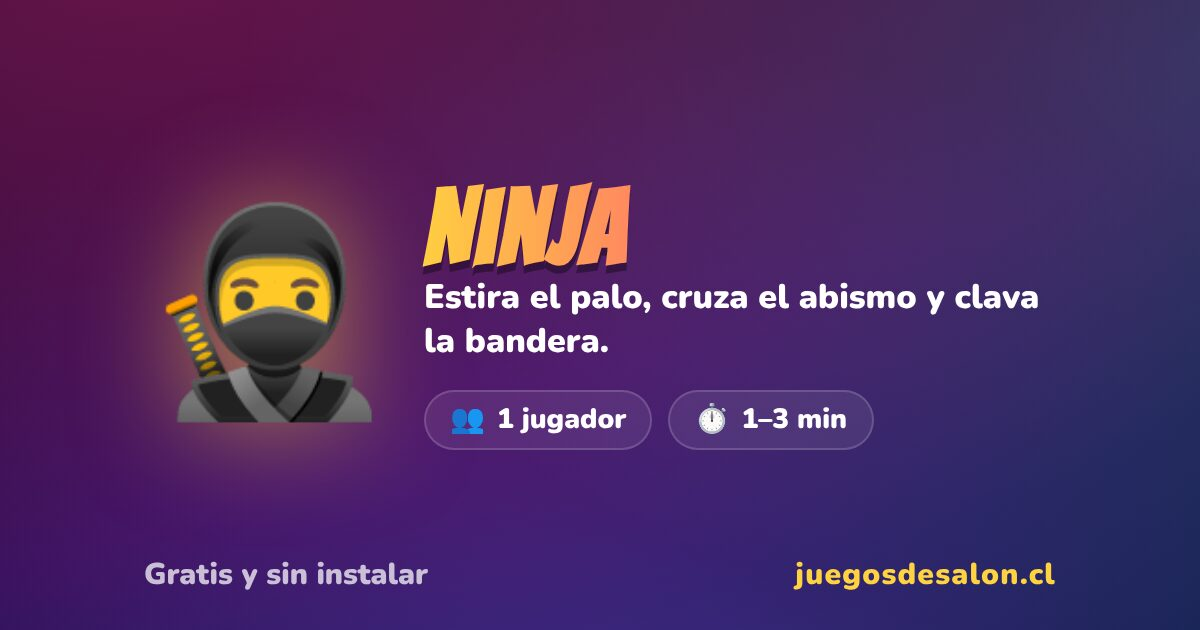
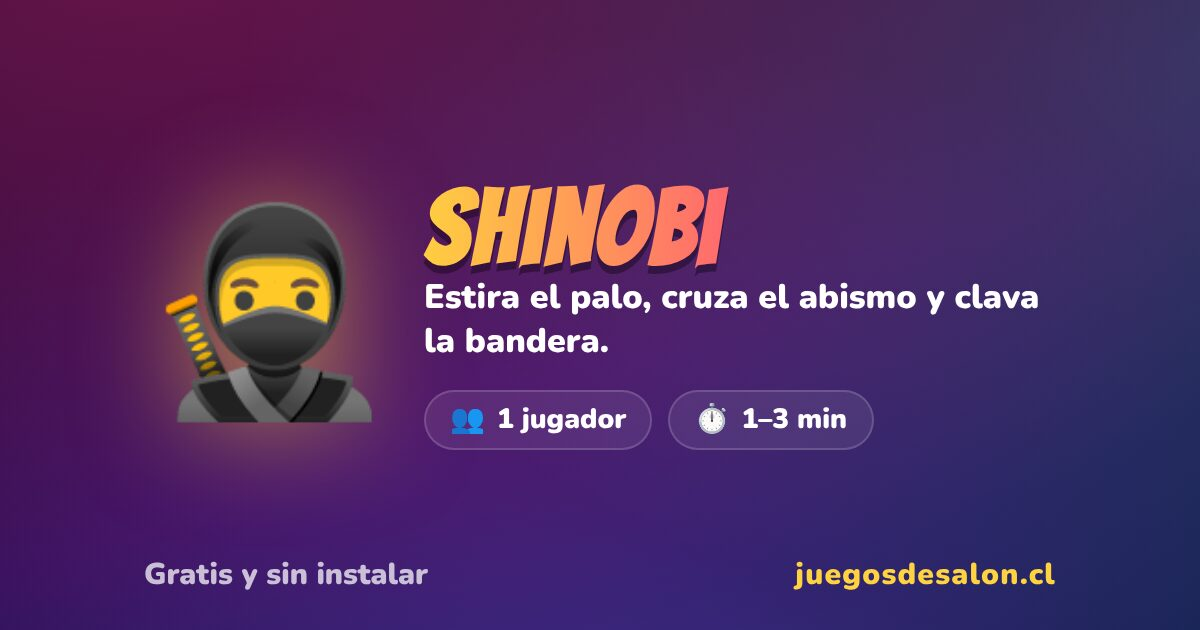
Ninja is renamed Shinobi (the owner's choice): its page moves to /shinobi/ (D-517)
The id stays `stick`; the play is unchanged and the cover still credits
Ketchapp's Stick Hero with its link.

Claude-Session: https://claude.ai/code/session_014TxuHUiWxbmduqQWuqBB6e

Changed region(s): [[0.3392, 0.2714, 0.6167, 0.4524]]

diff --git a/public/minigames/shinobi/index.html b/public/minigames/shinobi/index.html
@@ -3,34 +3,34 @@
 <head>
   <meta charset="utf-8">
   <meta name="viewport" content="width=device-width, initial-scale=1">
-  <title>Ninja 🥷 · Juegos de Salón</title>
-  <!-- Bridge page (D-192): this route moved to /ninja/. Generated by node tools/release/og.mjs cards: not edited by hand. -->
+  <title>Shinobi 🥷 · Juegos de Salón</title>
+  <!-- Bridge page (D-192): this route moved to /shinobi/. Generated by node tools/release/og.mjs cards: not edited by hand. -->
   <!-- generated: og · rewritten by node tools/release/og.mjs cards -->
   <meta name="description" content="Estira el palo, cruza el abismo y clava la bandera. Un jugador, 1–3 min. Gratis, sin instalar y sin cuenta.">
-  <link rel="canonical" href="https://juegosdesalon.cl/ninja/">
+  <link rel="canonical" href="https://juegosdesalon.cl/shinobi/">
   <meta property="og:type" content="website">
   <meta property="og:site_name" content="Juegos de Salón">
-  <meta property="og:url" content="https://juegosdesalon.cl/ninja/">
-  <meta property="og:title" content="Ninja 🥷 · Juegos de Salón">
+  <meta property="og:url" content="https://juegosdesalon.cl/shinobi/">
+  <meta property="og:title" content="Shinobi 🥷 · Juegos de Salón">
   <meta property="og:description" content="Estira el palo, cruza el abismo y clava la bandera. Un jugador, 1–3 min. Gratis, sin instalar y sin cuenta.">
   <meta property="og:image" content="https://juegosdesalon.cl/assets/og/stick.jpg">
   <meta property="og:image:type" content="image/jpeg">
   <meta property="og:image:width" content="1200">
   <meta property="og:image:height" content="630">
-  <meta property="og:image:alt" content="Ninja: Estira el palo, cruza el abismo y clava la bandera.">
+  <meta property="og:image:alt" content="Shinobi: Estira el palo, cruza el abismo y clava la bandera.">
   <meta property="og:locale" content="es_CL">
   <meta property="og:locale:alternate" content="en_US">
   <meta property="og:locale:alternate" content="pt_BR">
   <meta name="twitter:card" content="summary_large_image">
-  <meta name="twitter:title" content="Ninja 🥷 · Juegos de Salón">
+  <meta name="twitter:title" content="Shinobi 🥷 · Juegos de Salón">
   <meta name="twitter:description" content="Estira el palo, cruza el abismo y clava la bandera. Un jugador, 1–3 min. Gratis, sin instalar y sin cuenta.">
   <meta name="twitter:image" content="https://juegosdesalon.cl/assets/og/stick.jpg">
-  <meta name="twitter:image:alt" content="Ninja: Estira el palo, cruza el abismo y clava la bandera.">
+  <meta name="twitter:image:alt" content="Shinobi: Estira el palo, cruza el abismo y clava la bandera.">
   <!-- /generated -->
-  <script>try { if (sessionStorage.getItem('juegos-de-salon:ref') === null) sessionStorage.setItem('juegos-de-salon:ref', document.referrer); } catch (e) {} location.replace('../../ninja/' + location.search + location.hash);</script>
-  <noscript><meta http-equiv="refresh" content="0; url=../../ninja/"></noscript>
+  <script>try { if (sessionStorage.getItem('juegos-de-salon:ref') === null) sessionStorage.setItem('juegos-de-salon:ref', document.referrer); } catch (e) {} location.replace('../../shinobi/' + location.search + location.hash);</script>
+  <noscript><meta http-equiv="refresh" content="0; url=../../shinobi/"></noscript>
 </head>
 <body>
-  <p><a href="../../ninja/">Ninja 🥷 · Juegos de Salón</a></p>
+  <p><a href="../../shinobi/">Shinobi 🥷 · Juegos de Salón</a></p>
 </body>
 </html>

diff --git a/public/minijuegos/stick/index.html b/public/minijuegos/stick/index.html
@@ -3,34 +3,34 @@
 <head>
   <meta charset="utf-8">
   <meta name="viewport" content="width=device-width, initial-scale=1">
-  <title>Ninja 🥷 · Juegos de Salón</title>
-  <!-- Bridge page (D-192): this route moved to /ninja/. Generated by node tools/release/og.mjs cards: not edited by hand. -->
+  <title>Shinobi 🥷 · Juegos de Salón</title>
+  <!-- Bridge page (D-192): this route moved to /shinobi/. Generated by node tools/release/og.mjs cards: not edited by hand. -->
   <!-- generated: og · rewritten by node tools/release/og.mjs cards -->
   <meta name="description" content="Estira el palo, cruza el abismo y clava la bandera. Un jugador, 1–3 min. Gratis, sin instalar y sin cuenta.">
-  <link rel="canonical" href="https://juegosdesalon.cl/ninja/">
+  <link rel="canonical" href="https://juegosdesalon.cl/shinobi/">
   <meta property="og:type" content="website">
   <meta property="og:site_name" content="Juegos de Salón">
-  <meta property="og:url" content="https://juegosdesalon.cl/ninja/">
-  <meta property="og:title" content="Ninja 🥷 · Juegos de Salón">
+  <meta property="og:url" content="https://juegosdesalon.cl/shinobi/">
+  <meta property="og:title" content="Shinobi 🥷 · Juegos de Salón">
   <meta property="og:description" content="Estira el palo, cruza el abismo y clava la bandera. Un jugador, 1–3 min. Gratis, sin instalar y sin cuenta.">
   <meta property="og:image" content="https://juegosdesalon.cl/assets/og/stick.jpg">
   <meta property="og:image:type" content="image/jpeg">
   <meta property="og:image:width" content="1200">
   <meta property="og:image:height" content="630">
-  <meta property="og:image:alt" content="Ninja: Estira el palo, cruza el abismo y clava la bandera.">
+  <meta property="og:image:alt" content="Shinobi: Estira el palo, cruza el abismo y clava la bandera.">
   <meta property="og:locale" content="es_CL">
   <meta property="og:locale:alternate" content="en_US">
   <meta property="og:locale:alternate" content="pt_BR">
   <meta name="twitter:card" content="summary_large_image">
-  <meta name="twitter:title" content="Ninja 🥷 · Juegos de Salón">
+  <meta name="twitter:title" content="Shinobi 🥷 · Juegos de Salón">
   <meta name="twitter:description" content="Estira el palo, cruza el abismo y clava la bandera. Un jugador, 1–3 min. Gratis, sin instalar y sin cuenta.">
   <meta name="twitter:image" content="https://juegosdesalon.cl/assets/og/stick.jpg">
-  <meta name="twitter:image:alt" content="Ninja: Estira el palo, cruza el abismo y clava la bandera.">
+  <meta name="twitter:image:alt" content="Shinobi: Estira el palo, cruza el abismo y clava la bandera.">
   <!-- /generated -->
-  <script>try { if (sessionStorage.getItem('juegos-de-salon:ref') === null) sessionStorage.setItem('juegos-de-salon:ref', document.referrer); } catch (e) {} location.replace('../../ninja/' + location.search + location.hash);</script>
-  <noscript><meta http-equiv="refresh" content="0; url=../../ninja/"></noscript>
+  <script>try { if (sessionStorage.getItem('juegos-de-salon:ref') === null) sessionStorage.setItem('juegos-de-salon:ref', document.referrer); } catch (e) {} location.replace('../../shinobi/' + location.search + location.hash);</script>
+  <noscript><meta http-equiv="refresh" content="0; url=../../shinobi/"></noscript>
 </head>
 <body>
-  <p><a href="../../ninja/">Ninja 🥷 · Juegos de Salón</a></p>
+  <p><a href="../../shinobi/">Shinobi 🥷 · Juegos de Salón</a></p>
 </body>
 </html>

diff --git a/public/shinobi/index.html b/public/shinobi/index.html
@@ -6,7 +6,7 @@
   <meta name="theme-color" content="#150726">
   <meta name="apple-mobile-web-app-capable" content="yes">
   <meta name="apple-mobile-web-app-status-bar-style" content="black-translucent">
-  <title>Ninja 🥷 · Juegos de Salón</title>
+  <title>Shinobi 🥷 · Juegos de Salón</title>
   <!-- Generated by node tools/release/og.mjs cards from public/cup/suelto/index.html: not edited by hand (D-162). -->
   <!--
     Sin destello de idioma (D-194): el HTML trae los textos en español y los módulos los cambian
@@ -28,25 +28,25 @@
   </script>
   <!-- generated: og · rewritten by node tools/release/og.mjs cards -->
   <meta name="description" content="Estira el palo, cruza el abismo y clava la bandera. Un jugador, 1–3 min. Gratis, sin instalar y sin cuenta.">
-  <link rel="canonical" href="https://juegosdesalon.cl/ninja/">
+  <link rel="canonical" href="https://juegosdesalon.cl/shinobi/">
   <meta property="og:type" content="website">
   <meta property="og:site_name" content="Juegos de Salón">
-  <meta property="og:url" content="https://juegosdesalon.cl/ninja/">
-  <meta property="og:title" content="Ninja 🥷 · Juegos de Salón">
+  <meta property="og:url" content="https://juegosdesalon.cl/shinobi/">
+  <meta property="og:title" content="Shinobi 🥷 · Juegos de Salón">
   <meta property="og:description" content="Estira el palo, cruza el abismo y clava la bandera. Un jugador, 1–3 min. Gratis, sin instalar y sin cuenta.">
   <meta property="og:image" content="https://juegosdesalon.cl/assets/og/stick.jpg">
   <meta property="og:image:type" content="image/jpeg">
   <meta property="og:image:width" content="1200">
   <meta property="og:image:height" content="630">
-  <meta property="og:image:alt" content="Ninja: Estira el palo, cruza el abismo y clava la bandera.">
+  <meta property="og:image:alt" content="Shinobi: Estira el palo, cruza el abismo y clava la bandera.">
   <meta property="og:locale" content="es_CL">
   <meta property="og:locale:alternate" content="en_US">
   <meta property="og:locale:alternate" content="pt_BR">
   <meta name="twitter:card" content="summary_large_image">
-  <meta name="twitter:title" content="Ninja 🥷 · Juegos de Salón">
+  <meta name="twitter:title" content="Shinobi 🥷 · Juegos de Salón">
   <meta name="twitter:description" content="Estira el palo, cruza el abismo y clava la bandera. Un jugador, 1–3 min. Gratis, sin instalar y sin cuenta.">
   <meta name="twitter:image" content="https://juegosdesalon.cl/assets/og/stick.jpg">
-  <meta name="twitter:image:alt" content="Ninja: Estira el palo, cruza el abismo y clava la bandera.">
+  <meta name="twitter:image:alt" content="Shinobi: Estira el palo, cruza el abismo y clava la bandera.">
   <!-- /generated -->
   <link rel="manifest" href="../manifest.webmanifest">
   <script>

diff --git a/public/assets/js/games.js b/public/assets/js/games.js
@@ -491,26 +491,27 @@ export const SUELTOS = [
     // (`oculto`). Its lab page /labs/stick/ stays until the cleanup PR makes it a bridge
     id: 'stick',
     lanza: 'stick',
+    // Its name is Shinobi (the owner's choice, first called Ninja); the id stays `stick`
     // La Copa: its place in the pool an admin picks the days from (cup/engine.js POZO, #855)
     copa: { pozo: 14 },
     // Uno al día: by date, never by flag (the deck must be the same on every phone): from the day after
     // the launch, joining the next deck
     unoAlDia: { orden: 19, desde: '2026-11-03' },
-    slug: 'ninja',
+    slug: 'shinobi',
     emoji: '🥷',
-    name: { es: 'Ninja', en: 'Ninja', pt: 'Ninja' },
+    name: { es: 'Shinobi', en: 'Shinobi', pt: 'Shinobi' },
     tagline: { es: 'Estira el palo, cruza el abismo y clava la bandera.', en: 'Stretch the stick, cross the gap, plant the flag.', pt: 'Estique o bastão, atravesse o abismo e finque a bandeira.' },
     keywords: {
-      es: ['ninja', 'palo', 'puente', 'saltar', 'habilidad', 'reflejos', 'pulso', 'bandera', 'abismo'],
-      en: ['ninja', 'stick', 'bridge', 'jump', 'skill', 'reflexes', 'timing', 'flag', 'gap'],
-      pt: ['ninja', 'bastão', 'ponte', 'pular', 'habilidade', 'reflexos', 'precisão', 'bandeira', 'abismo'],
+      es: ['shinobi', 'ninja', 'palo', 'puente', 'saltar', 'habilidad', 'reflejos', 'pulso', 'bandera', 'abismo'],
+      en: ['shinobi', 'ninja', 'stick', 'bridge', 'jump', 'skill', 'reflexes', 'timing', 'flag', 'gap'],
+      pt: ['shinobi', 'ninja', 'bastão', 'ponte', 'pular', 'habilidade', 'reflexos', 'precisão', 'bandeira', 'abismo'],
     },
     tipos: ['skill'],
     duration: '1–3',
     nuevoDesde: '2026-11-02',
   },
   {
-    // Out of the lab in D-517 with Ninja, launched the same way by flags/stack (see Ninja). Its name is Babel (the
+    // Out of the lab in D-517 with Shinobi, launched the same way by flags/stack (see Shinobi). Its name is Babel (the
     // owner's choice): not the original's (Stack); the id stays `stack`
     id: 'stack',
     lanza: 'stack',
@@ -543,7 +544,7 @@ export const TIPOS = {
   trivia: { emoji: '🧠', name: { es: 'Cultura', en: 'Trivia', pt: 'Cultura' } },
   // Only dice since Julepe and Cuarto Rey left the home page (D-420): the key stays, the name says what is there (D-517)
   tabletop: { emoji: '🎲', name: { es: 'Dados', en: 'Dice', pt: 'Dados' } },
-  // The first skill games, Ninja and Babel (D-517): the home page offers a type only while it has a game to show.
+  // The first skill games, Shinobi and Babel (D-517): the home page offers a type only while it has a game to show.
   // A short name, so five types fit one row on a 320 px phone in every language
   skill: { emoji: '🎯', name: { es: 'Pulso', en: 'Skill', pt: 'Reflexo' } },
 };

diff --git a/public/labs/index.html b/public/labs/index.html
@@ -95,10 +95,10 @@
         </section>
 
         <section class="panel seccion" id="seccion-stick">
-          <h2>🥷 Ninja</h2>
+          <h2>🥷 Shinobi</h2>
           <p class="muted" style="margin:0">Inspirado en <a href="https://www.ketchappgames.com/" target="_blank" rel="noopener">Stick Hero</a>, de Ketchapp. Mantén el dedo para estirar el palo y suéltalo para tender el puente. Si la punta cae en la bandera, es perfecto y suma más. Tres vidas, y el recorrido de hoy es el mismo para todos.</p>
-          <p class="muted" style="margin:0;font-size:0.85rem">Listo para lanzar (D-517): en los tres idiomas, con su página <a href="../ninja/">/ninja/</a>, ranking, La Copa y Uno al día (desde el mazo del 8 de noviembre). Publicar para todos lo muestra al instante en la portada, la búsqueda y las copas nuevas; Volver al laboratorio lo vuelve a esconder.</p>
-          <a class="btn btn--yellow" id="btn-stick" href="../ninja/">🥷 Jugar Ninja</a>
+          <p class="muted" style="margin:0;font-size:0.85rem">Listo para lanzar (D-517): en los tres idiomas, con su página <a href="../shinobi/">/shinobi/</a>, ranking, La Copa y Uno al día (desde el mazo del 8 de noviembre). Publicar para todos lo muestra al instante en la portada, la búsqueda y las copas nuevas; Volver al laboratorio lo vuelve a esconder.</p>
+          <a class="btn btn--yellow" id="btn-stick" href="../shinobi/">🥷 Jugar Shinobi</a>
           <a class="link-btn" id="btn-stick-lab" href="stick/">El prototipo, en inglés</a>
         </section>
 

diff --git a/public/cup/games/stick/texts.js b/public/cup/games/stick/texts.js
@@ -1,11 +1,11 @@
 /**
- * 🥷 Ninja (id `stick`) in La Copa: its texts in the three languages (C-3), merged into rules.js (D-331).
+ * 🥷 Shinobi (id `stick`) in La Copa: its texts in the three languages (C-3), merged into rules.js (D-331).
  * `juego` is its entry in `juegos`; `ui`, the keys its screen reads from T, all prefixed `sn`. The end
  * button reuses the cup's `seeResults` (or the trial's `trialEnd`).
  */
 const ES = {
   juego: {
-    nombre: 'Ninja', habilidad: 'reflejos',
+    nombre: 'Shinobi', habilidad: 'reflejos',
     como: [
       'Mantén apretado para estirar el palo y suelta para que caiga sobre el vacío: si llega al pilar siguiente, el ninja cruza.',
       'Si la punta cae en la bandera, suma más por cada una seguida.',
@@ -50,7 +50,7 @@ const ES = {
 
 const EN = {
   juego: {
-    nombre: 'Ninja', habilidad: 'reflexes',
+    nombre: 'Shinobi', habilidad: 'reflexes',
     como: [
       'Hold to stretch the stick and let go to drop it across the gap: if it reaches the next pillar, the ninja crosses.',
       'Land its tip on the flag for extra points, more for each one in a row.',
@@ -95,7 +95,7 @@ const EN = {
 
 const PT = {
   juego: {
-    nombre: 'Ninja', habilidad: 'reflexos',
+    nombre: 'Shinobi', habilidad: 'reflexos',
     como: [
       'Segure para esticar o bastão e solte para ele cair sobre o vão: se alcançar o próximo pilar, o ninja atravessa.',
       'Se a ponta cair na bandeira, ganha mais a cada uma seguida.',

diff --git a/public/cup/games/stick/ui.js b/public/cup/games/stick/ui.js
@@ -1,5 +1,5 @@
 /**
- * 🥷 Ninja (id `stick`): the screen for its own page (/ninja/), Uno al día and La Copa, moved over from
+ * 🥷 Shinobi (id `stick`): the screen for its own page (/shinobi/), Uno al día and La Copa, moved over from
  * the lab (D-446) as Tren en Vilo was (D-456). Hold to stretch a stick, let go and it falls across the
  * gap; land it on the next pillar and the ninja runs over. Everything the lab's game had in play comes
  * along: the hold measured with the events' own timestamps, 3 lives with the climb back up, flags with
@@ -100,7 +100,7 @@ function demo(lienzo) {
 
 /**
  * The name in the waiting room, with the credit to the original right under it, as Loteo does (the
- * owner's call: transparency; the name stays Ninja). `titulo` gets no T: the texts in the page's language.
+ * owner's call: transparency; the name stays Shinobi). `titulo` gets no T: the texts in the page's language.
  */
 const KETCHAPP = 'https://www.ketchappgames.com/';
 const UI = () => { let l = 'es'; try { l = getLang(); } catch (_) { /* outside the browser */ } return (TEXTOS[l] || TEXTOS.es).ui; };

diff --git a/public/cup/demo.js b/public/cup/demo.js
@@ -45,7 +45,7 @@ const PUNTAJE = {
   // Agentes (D-421): the agents found, minus a neutral now and then
   agentes: k => { const s = Math.max(0, Math.round(100 * Math.round(11 * k) / 11) - (k < 0.5 ? 15 : 0)); return { s, r: `${s}/100` }; },
   // Tren en Vilo (D-456): ten a stage crossed, plus savings, solidity and speed
-  // Ninja: its points, up to 100 (D-517)
+  // Shinobi: its points, up to 100 (D-517)
   stick: k => { const s = Math.min(100, Math.round(60 * k + 40 * k * k)); return { s, r: `🥷 ${s}` }; },
   // Babel: two points a block, up to 100 (D-517)
   stack: k => { const s = Math.min(100, 2 * Math.round(50 * k * k)); return { s, r: `${s}/100` }; },

diff --git a/public/assets/js/flag-list.js b/public/assets/js/flag-list.js
@@ -16,7 +16,7 @@ export const FLAGS = {
   'cup-back-board': '🏆 La Copa: the header ‹ goes back to the board while playing a day',
   'name-guard': '🛡 Rankings: offensive names refused on sign-up',
   'uad-month-end': '🥇 Uno al día: month-end window with your place, a medal for the podium',
-  'stick': '🥷 Ninja: the game, on the home page, the search and new cups (D-517)',
+  'stick': '🥷 Shinobi: the game, on the home page, the search and new cups (D-517)',
   'stack': '🗼 Babel: the game, on the home page, the search and new cups (D-517)',
   'no-double-tap-zoom': '👆 Games: a double tap no longer zooms the page (iPhone)',
 };

diff --git a/public/cup/games/stick/scene.js b/public/cup/games/stick/scene.js
@@ -1,5 +1,5 @@
 /**
- * 🥷 Ninja's drawing, moved over from the lab (D-446): the night, the pillars, the stick and the ninja on
+ * 🥷 Shinobi's drawing, moved over from the lab (D-446): the night, the pillars, the stick and the ninja on
  * a canvas. The screen (ui.js) draws the game and the cover's demo with it.
  */
 import { pillar, pillarAt, current, next, stickAt, runX, restX, VIEW, HOLD_X, TURN_MS, NINJA, PERFECT, MAX_BONUS } from './engine.js';

diff --git a/public/cup/games/stick/style.css b/public/cup/games/stick/style.css
@@ -1,4 +1,4 @@
-/* 🥷 Ninja (id `stick`) in La Copa, from the lab's style (D-446); loaded by ui.js (D-468). Every class
+/* 🥷 Shinobi (id `stick`) in La Copa, from the lab's style (D-446); loaded by ui.js (D-468). Every class
    starts with `sn-`, so nothing clashes with the cup's page. What is shared lives in assets/css/base.css. */
 
 /* The cover's run, playing itself; the canvas is transparent and stands on the app's night */

diff --git a/public/cup/games/stick/engine.js b/public/cup/games/stick/engine.js
@@ -1,5 +1,5 @@
 /**
- * 🥷 Ninja (id `stick`) — its engine in La Copa, Uno al día and its own page, moved over from the lab
+ * 🥷 Shinobi (id `stick`) — its engine in La Copa, Uno al día and its own page, moved over from the lab
  * (D-446): hold to stretch a stick, let go and it falls across the gap; land it on the next pillar and the
  * ninja runs over. Pure functions, no DOM.
  *
